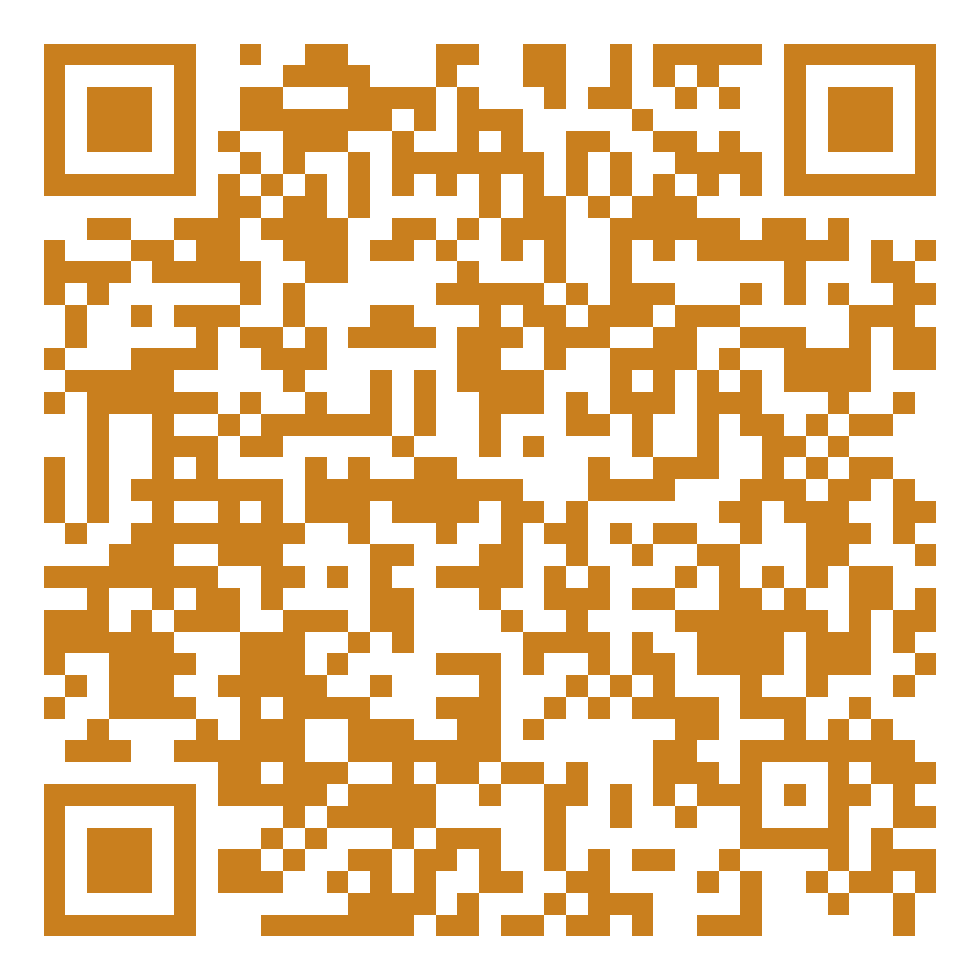
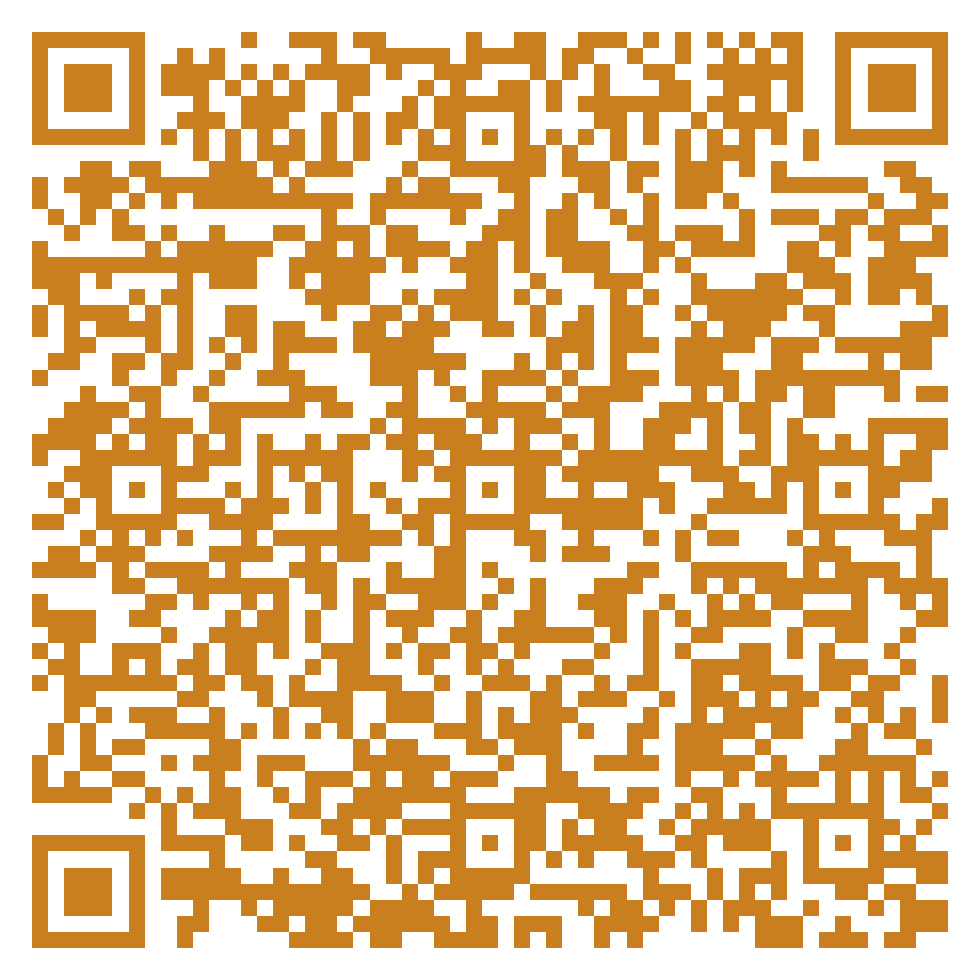
docs(labs): le flashcode de la démo mène droit à l'APK
En rendez-vous, le téléchargement doit partir au scan. Le détour par
labs-luxasr.html permettait au téléphone de lire lui-même la marche à
suivre, mais coûtait une pression au moment précis où tout le monde
regarde ; c'est le présentateur qui dira comment activer le clavier.

Le QR rejoint donc la convention des trois autres du site. Contrepartie
assumée et écrite dans le script : il devient faux si le tag `labs-luxasr`
ou le nom de l'asset changent, tous deux fixés par labs.yml.

L'image du QR devient cliquable, comme sur la page Labs, et l'étape 1 se
lit maintenant aussi bien après un scan qu'après un clic.

generate_qr.py gagne un forçage sélectif : `--force` seul vient de réécrire
deux QR étrangers au changement — ceux du test fermé et de l'APK stable, qui
partent à l'impression. On peut désormais nommer le fichier à refaire.

Claude-Session: https://claude.ai/code/session_013NnW1QGXAfuDZagee2kNUg

diff --git a/docs/labs-luxasr.html b/docs/labs-luxasr.html
@@ -55,8 +55,9 @@ a{color:var(--sea);}
 .qr img{display:block;width:170px;height:170px;background:#fff;
   border-radius:10px;padding:7px;box-sizing:border-box;border:1px solid var(--line);}
 .qr figcaption{margin-top:8px;font-size:12.5px;color:var(--ink-soft);line-height:1.35;}
-/* Le QR pointe sur cette page même : qui le lit sur un téléphone l'a déjà
-   scanné, et n'a que faire de le revoir au-dessus du bouton. */
+/* Sur un téléphone, le QR n'a plus d'usage : soit on l'a déjà scanné et le
+   téléchargement est parti, soit on est arrivé par un lien et le bouton fait
+   la même chose en une pression. */
 @media (max-width:560px){ .qr{display:none;} }
 
 .card{background:var(--card);border:1px solid var(--line);border-radius:12px;padding:18px;margin-bottom:14px;}
@@ -169,17 +170,20 @@ footer.page{margin-top:48px;padding-top:18px;border-top:1px solid var(--line);
       </p>
     </div>
     <figure class="qr">
-      <img src="assets/qr-luxkeyb-luxasr.png"
-           alt="Code QR ouvrant cette page de démonstration sur un téléphone"
-           width="170" height="170">
-      <figcaption>Scannez avec le téléphone<br>de démonstration</figcaption>
+      <a href="https://github.com/famibelle/LuxKeyb/releases/download/labs-luxasr/LetzebuergeschClavier-LuxASR-Demo.apk">
+        <img src="assets/qr-luxkeyb-luxasr.png"
+             alt="Code QR téléchargeant directement l'APK de démonstration LuxASR"
+             width="170" height="170">
+      </a>
+      <figcaption>Scannez pour télécharger<br>directement sur le téléphone</figcaption>
     </figure>
   </div>
 
   <div class="card">
     <ol class="steps">
       <li>
-        <strong>Téléchargez</strong> le fichier APK avec le bouton ci-dessus.
+        <strong>Téléchargez</strong> le fichier APK. Le flashcode le fait
+        partir tout seul ; sinon, le bouton ci-dessus.
       </li>
       <li>
         <strong>Ouvrez-le.</strong> Android demandera d'autoriser l'installation

diff --git a/docs/scripts/generate_qr.py b/docs/scripts/generate_qr.py
@@ -38,12 +38,18 @@ CODES = {
         "#0E6E76",
     ),
     "qr-luxkeyb-luxasr.png": (
-        # Vers la page, et non vers l'APK : celui qui scanne est sur le
-        # téléphone, et c'est là qu'il doit lire comment activer le clavier
-        # dans les réglages Android — une étape qu'un téléchargement direct
-        # ne raconte à personne. L'URL de la page ne bouge pas non plus quand
-        # le nom de l'asset ou le tag de la préversion change.
-        "https://famibelle.github.io/LuxKeyb/labs-luxasr.html",
+        # Directement sur l'APK, comme les trois autres : en démonstration, le
+        # téléchargement doit partir dès le scan, et c'est le présentateur qui
+        # dit à voix haute comment activer le clavier ensuite. Une version
+        # antérieure pointait sur labs-luxasr.html pour que le téléphone lise
+        # lui-même la marche à suivre ; cela coûtait une pression de plus au
+        # moment précis où tout le monde regarde.
+        #
+        # Contrepartie assumée : ce QR devient faux si le tag `labs-luxasr` ou
+        # le nom de l'asset changent. Les deux sont fixés par .github/workflows/
+        # labs.yml — les modifier oblige à repasser ici avec --force.
+        "https://github.com/famibelle/LuxKeyb/releases/download/labs-luxasr/"
+        "LetzebuergeschClavier-LuxASR-Demo.apk",
         # --sun du thème : la couleur que le site emploie déjà pour signaler
         # ce qui demande une lecture attentive, et distincte des trois autres.
         "#C97F1E",
@@ -73,11 +79,23 @@ if __name__ == "__main__":
     # Par défaut, seuls les QR manquants sont écrits. Réécrire un QR déjà en
     # place change son tramage sans rien apporter, et ces fichiers partent à
     # l'impression : mieux vaut ne pas les faire bouger sans raison.
-    tout = "--force" in sys.argv
+    #
+    # --force seul réécrit TOUT, ce qui a déjà fait bouger deux QR étrangers au
+    # changement en cours. On peut donc le restreindre :
+    #
+    #     python docs/scripts/generate_qr.py --force qr-luxkeyb-luxasr.png
+    force = "--force" in sys.argv
+    vises = [a for a in sys.argv[1:] if not a.startswith("-")]
+    if vises:
+        inconnus = set(vises) - set(CODES)
+        if inconnus:
+            sys.exit(f"Nom(s) inconnu(s) : {', '.join(sorted(inconnus))}")
 
     print(f"QR codes dans {ASSETS} :")
     for nom, (url, couleur) in CODES.items():
-        if (ASSETS / nom).exists() and not tout:
+        if vises and nom not in vises:
+            continue
+        if (ASSETS / nom).exists() and not force:
             print(f"  {nom}  déjà présent, ignoré (--force pour réécrire)")
             continue
         generer(nom, url, couleur)
